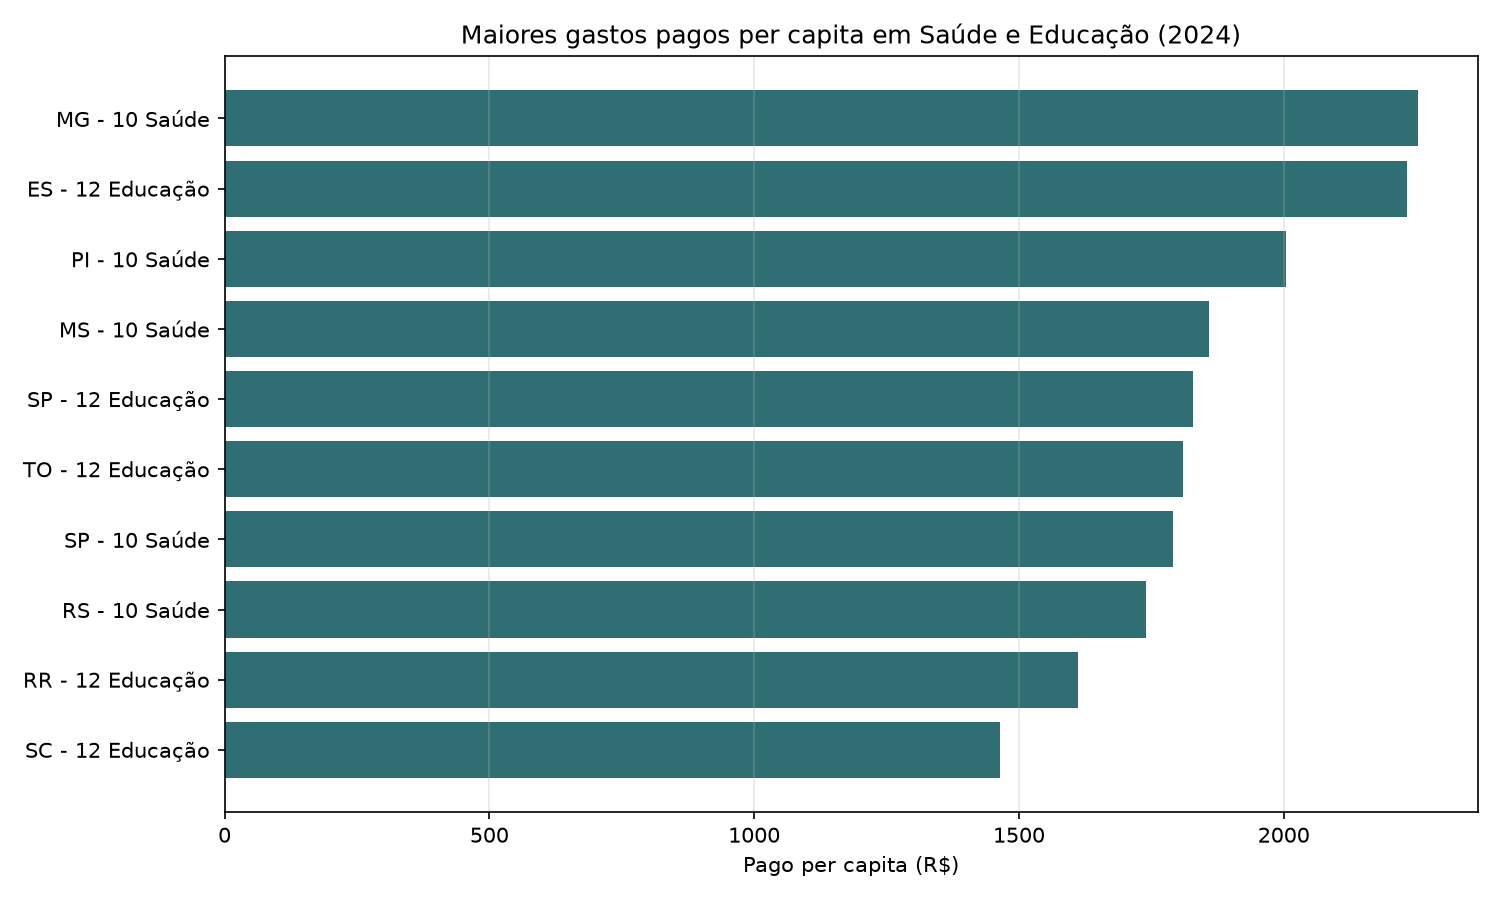
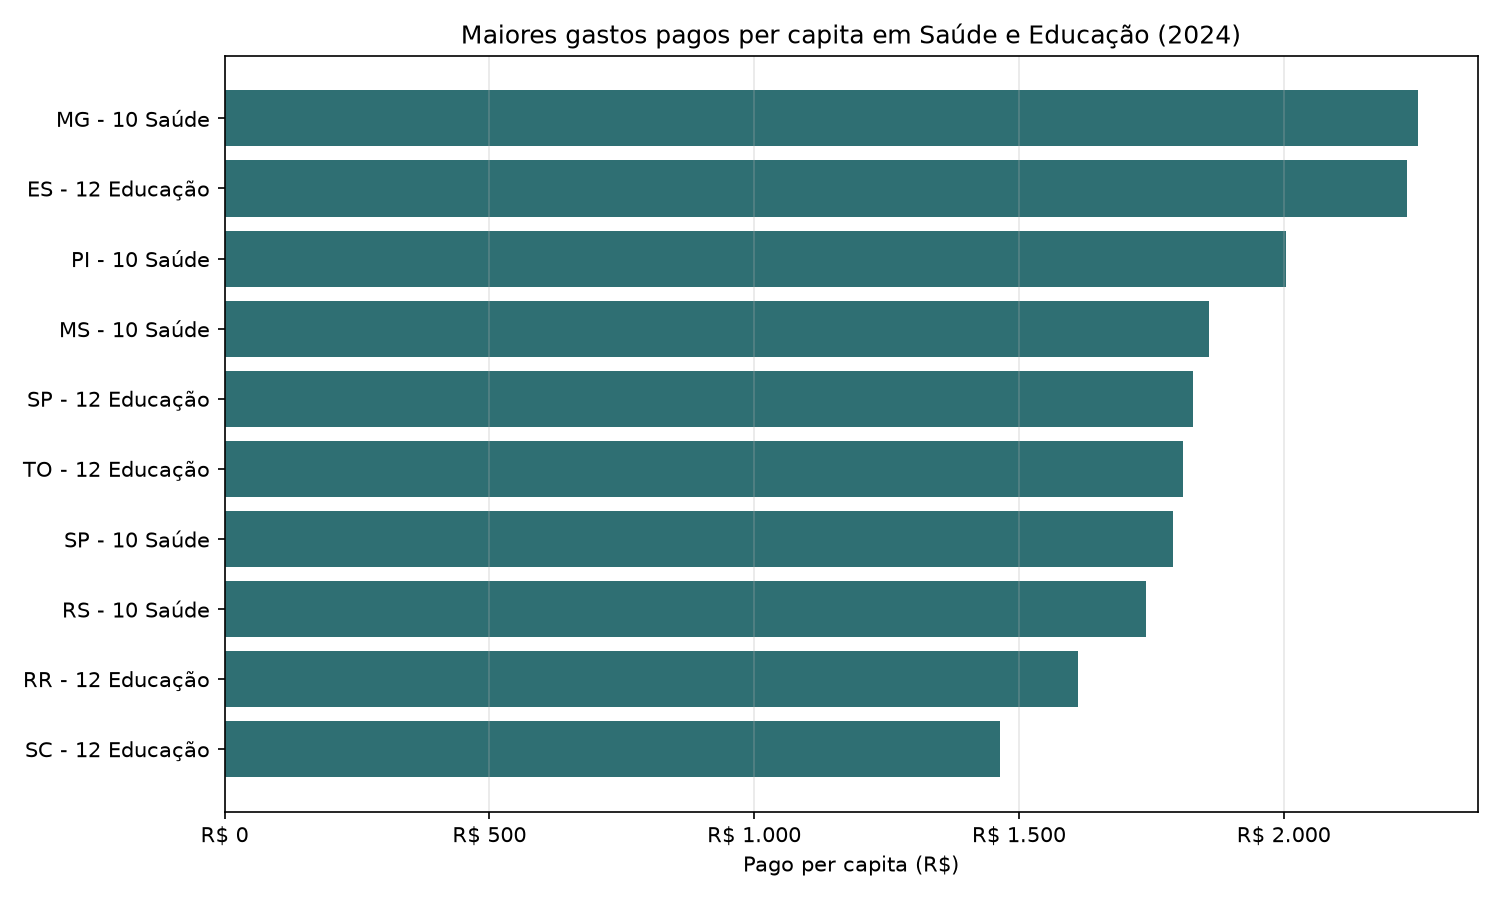
chore: integra novas saidas analiticas (Melhoria)

diff --git a/relatorios/analise_finbra.html b/relatorios/analise_finbra.html
@@ -60,6 +60,40 @@
     </section>
 
     <section class="section">
+      <h2>Baixa execução financeira em 2024</h2>
+      <p>
+        O recorte considera funções com pelo menos R$ 1.000.000,00
+        em despesas empenhadas, reduzindo o ruído de valores residuais.
+      </p>
+      <div class="table-wrap"><table class="data-table"><thead><tr><th>Capital</th><th>Função</th><th>Empenhado</th><th>Pago</th><th>Taxa de execução</th></tr></thead><tbody><tr><td>Goiânia - GO</td><td>11 - Trabalho</td><td>R$ 1.293.451,03</td><td>R$ 0,00</td><td>0,0%</td></tr><tr><td>São Luís - MA</td><td>23 - Comércio e Serviços</td><td>R$ 1.867.305,91</td><td>R$ 559.164,13</td><td>29,9%</td></tr><tr><td>Maceió - AL</td><td>16 - Habitação</td><td>R$ 2.168.153,21</td><td>R$ 649.674,84</td><td>30,0%</td></tr><tr><td>Teresina - PI</td><td>17 - Saneamento</td><td>R$ 4.825.482,62</td><td>R$ 1.586.615,17</td><td>32,9%</td></tr><tr><td>Teresina - PI</td><td>18 - Gestão Ambiental</td><td>R$ 3.913.655,20</td><td>R$ 1.576.162,65</td><td>40,3%</td></tr><tr><td>Curitiba - PR</td><td>16 - Habitação</td><td>R$ 47.450.518,60</td><td>R$ 21.807.627,41</td><td>46,0%</td></tr><tr><td>Vitória - ES</td><td>23 - Comércio e Serviços</td><td>R$ 15.739.115,51</td><td>R$ 7.804.478,54</td><td>49,6%</td></tr><tr><td>São Luís - MA</td><td>20 - Agricultura</td><td>R$ 4.555.374,74</td><td>R$ 2.291.631,27</td><td>50,3%</td></tr><tr><td>Vitória - ES</td><td>24 - Comunicações</td><td>R$ 9.937.871,45</td><td>R$ 5.091.425,60</td><td>51,2%</td></tr><tr><td>Curitiba - PR</td><td>15 - Urbanismo</td><td>R$ 1.805.830.695,76</td><td>R$ 982.059.804,58</td><td>54,4%</td></tr></tbody></table></div>
+    </section>
+
+    <section class="section">
+      <h2>Restos a pagar sobre empenhado em 2024</h2>
+      <div class="table-wrap"><table class="data-table"><thead><tr><th>Capital</th><th>Função</th><th>Empenhado</th><th>Restos a pagar</th><th>Restos sobre empenhado</th><th>Taxa de execução</th></tr></thead><tbody><tr><td>Goiânia - GO</td><td>11 - Trabalho</td><td>R$ 1.293.451,03</td><td>R$ 1.293.451,03</td><td>100,0%</td><td>0,0%</td></tr><tr><td>São Luís - MA</td><td>23 - Comércio e Serviços</td><td>R$ 1.867.305,91</td><td>R$ 1.308.141,78</td><td>70,1%</td><td>29,9%</td></tr><tr><td>Maceió - AL</td><td>16 - Habitação</td><td>R$ 2.168.153,21</td><td>R$ 1.518.478,37</td><td>70,0%</td><td>30,0%</td></tr><tr><td>Teresina - PI</td><td>17 - Saneamento</td><td>R$ 4.825.482,62</td><td>R$ 3.238.867,45</td><td>67,1%</td><td>32,9%</td></tr><tr><td>Teresina - PI</td><td>18 - Gestão Ambiental</td><td>R$ 3.913.655,20</td><td>R$ 2.337.492,55</td><td>59,7%</td><td>40,3%</td></tr><tr><td>Curitiba - PR</td><td>16 - Habitação</td><td>R$ 47.450.518,60</td><td>R$ 25.642.891,19</td><td>54,0%</td><td>46,0%</td></tr><tr><td>Vitória - ES</td><td>23 - Comércio e Serviços</td><td>R$ 15.739.115,51</td><td>R$ 7.934.636,97</td><td>50,4%</td><td>49,6%</td></tr><tr><td>São Luís - MA</td><td>20 - Agricultura</td><td>R$ 4.555.374,74</td><td>R$ 2.263.743,47</td><td>49,7%</td><td>50,3%</td></tr><tr><td>Vitória - ES</td><td>24 - Comunicações</td><td>R$ 9.937.871,45</td><td>R$ 4.846.445,85</td><td>48,8%</td><td>51,2%</td></tr><tr><td>Curitiba - PR</td><td>15 - Urbanismo</td><td>R$ 1.805.830.695,76</td><td>R$ 823.770.891,18</td><td>45,6%</td><td>54,4%</td></tr></tbody></table></div>
+    </section>
+
+    <section class="section">
+      <h2>Maceió contra distribuição das capitais</h2>
+      <div class="table-wrap"><table class="data-table"><thead><tr><th>Ano</th><th>Função</th><th>Maceió pago pc</th><th>Média pago pc</th><th>Mediana pago pc</th><th>Posição pago pc</th><th>Maceió execução</th><th>Mediana execução</th></tr></thead><tbody><tr><td>2020</td><td>10 - Saúde</td><td>R$ 766,94</td><td>R$ 881,20</td><td>R$ 789,72</td><td>15º de 26</td><td>98,7%</td><td>93,4%</td></tr><tr><td>2020</td><td>12 - Educação</td><td>R$ 313,16</td><td>R$ 617,60</td><td>R$ 592,54</td><td>24º de 26</td><td>89,2%</td><td>95,7%</td></tr><tr><td>2021</td><td>10 - Saúde</td><td>R$ 737,29</td><td>R$ 939,08</td><td>R$ 854,60</td><td>18º de 26</td><td>97,7%</td><td>94,5%</td></tr><tr><td>2021</td><td>12 - Educação</td><td>R$ 375,40</td><td>R$ 659,03</td><td>R$ 614,40</td><td>24º de 26</td><td>82,9%</td><td>85,3%</td></tr><tr><td>2022</td><td>10 - Saúde</td><td>R$ 832,41</td><td>R$ 997,61</td><td>R$ 900,50</td><td>18º de 26</td><td>98,4%</td><td>92,9%</td></tr><tr><td>2022</td><td>12 - Educação</td><td>R$ 702,25</td><td>R$ 835,78</td><td>R$ 793,89</td><td>16º de 26</td><td>94,3%</td><td>90,2%</td></tr><tr><td>2023</td><td>10 - Saúde</td><td>R$ 1.235,46</td><td>R$ 1.158,78</td><td>R$ 1.068,33</td><td>9º de 26</td><td>97,8%</td><td>93,2%</td></tr><tr><td>2023</td><td>12 - Educação</td><td>R$ 593,80</td><td>R$ 957,60</td><td>R$ 906,74</td><td>24º de 26</td><td>94,4%</td><td>91,8%</td></tr><tr><td>2024</td><td>10 - Saúde</td><td>R$ 1.314,67</td><td>R$ 1.348,42</td><td>R$ 1.296,56</td><td>13º de 26</td><td>97,4%</td><td>95,5%</td></tr><tr><td>2024</td><td>12 - Educação</td><td>R$ 715,71</td><td>R$ 1.158,05</td><td>R$ 1.055,80</td><td>25º de 26</td><td>85,5%</td><td>94,3%</td></tr></tbody></table></div>
+    </section>
+
+    <section class="section">
+      <h2>Subfunções de Saúde e Educação em Maceió (2024)</h2>
+      <div class="table-wrap"><table class="data-table"><thead><tr><th>Função</th><th>Subfunção</th><th>Pago</th><th>Pago per capita</th><th>Participação na função</th><th>Taxa de execução</th></tr></thead><tbody><tr><td>Saúde</td><td>10.302 - Assistência Hospitalar e Ambulatorial</td><td>R$ 739.098.739,88</td><td>R$ 769,36</td><td>58,5%</td><td>96,6%</td></tr><tr><td>Saúde</td><td>10.301 - Atenção Básica</td><td>R$ 346.872.424,92</td><td>R$ 361,07</td><td>27,5%</td><td>99,0%</td></tr><tr><td>Saúde</td><td>10.122 - Administração Geral</td><td>R$ 77.189.022,44</td><td>R$ 80,35</td><td>6,1%</td><td>98,8%</td></tr><tr><td>Saúde</td><td>10.305 - Vigilância Epidemiológica</td><td>R$ 68.567.166,70</td><td>R$ 71,37</td><td>5,4%</td><td>98,5%</td></tr><tr><td>Saúde</td><td>10.303 - Suporte Profilático e Terapêutico</td><td>R$ 22.785.057,90</td><td>R$ 23,72</td><td>1,8%</td><td>91,0%</td></tr><tr><td>Saúde</td><td>10.304 - Vigilância Sanitária</td><td>R$ 8.141.131,48</td><td>R$ 8,47</td><td>0,6%</td><td>99,1%</td></tr><tr><td>Educação</td><td>12.361 - Ensino Fundamental</td><td>R$ 291.273.033,05</td><td>R$ 303,20</td><td>42,7%</td><td>97,3%</td></tr><tr><td>Educação</td><td>12.122 - Administração Geral</td><td>R$ 193.550.273,99</td><td>R$ 201,47</td><td>28,4%</td><td>82,2%</td></tr><tr><td>Educação</td><td>12.368 - Educação Básica</td><td>R$ 141.609.400,11</td><td>R$ 147,41</td><td>20,8%</td><td>69,3%</td></tr><tr><td>Educação</td><td>12.365 - Educação Infantil</td><td>R$ 50.237.143,03</td><td>R$ 52,29</td><td>7,4%</td><td>96,6%</td></tr><tr><td>Educação</td><td>12.367 - Educação Especial</td><td>R$ 3.440.711,17</td><td>R$ 3,58</td><td>0,5%</td><td>100,0%</td></tr><tr><td>Educação</td><td>12.366 - Educação de Jovens e Adultos</td><td>R$ 1.239.541,75</td><td>R$ 1,29</td><td>0,2%</td><td>100,0%</td></tr></tbody></table></div>
+    </section>
+
+    <section class="section">
+      <h2>Taxas de execução acima de 100%</h2>
+      <p>
+        Casos em que despesas pagas superam empenhadas no mesmo ano devem ser tratados como
+        alerta interpretativo, pois podem refletir pagamentos de restos de exercícios anteriores
+        ou outras dinâmicas contábeis.
+      </p>
+      <div class="table-wrap"><table class="data-table"><thead><tr><th>Ano</th><th>Capital</th><th>Função</th><th>Empenhado</th><th>Pago</th><th>Taxa de execução</th></tr></thead><tbody><tr><td>2023</td><td>Porto Velho - RO</td><td>28 - Encargos Especiais</td><td>R$ 131.804.487,40</td><td>R$ 147.921.326,16</td><td>112,2%</td></tr><tr><td>2023</td><td>Porto Velho - RO</td><td>12 - Educação</td><td>R$ 509.360.652,26</td><td>R$ 534.101.559,80</td><td>104,9%</td></tr><tr><td>2023</td><td>Porto Velho - RO</td><td>10 - Saúde</td><td>R$ 543.437.924,51</td><td>R$ 562.515.234,52</td><td>103,5%</td></tr><tr><td>2023</td><td>Porto Velho - RO</td><td>01 - Legislativa</td><td>R$ 53.534.311,19</td><td>R$ 54.081.483,38</td><td>101,0%</td></tr><tr><td>2024</td><td>Aracaju - SE</td><td>28 - Encargos Especiais</td><td>R$ 201.673.513,30</td><td>R$ 203.509.021,88</td><td>100,9%</td></tr><tr><td>2023</td><td>Porto Velho - RO</td><td>13 - Cultura</td><td>R$ 6.763.523,77</td><td>R$ 6.784.093,32</td><td>100,3%</td></tr><tr><td>2023</td><td>Porto Velho - RO</td><td>04 - Administração</td><td>R$ 518.606.400,05</td><td>R$ 520.026.750,93</td><td>100,3%</td></tr><tr><td>2023</td><td>Porto Velho - RO</td><td>09 - Previdência Social</td><td>R$ 187.765.021,82</td><td>R$ 188.197.135,78</td><td>100,2%</td></tr><tr><td>2024</td><td>Belém - PA</td><td>01 - Legislativa</td><td>R$ 132.409.889,76</td><td>R$ 132.460.145,70</td><td>100,0%</td></tr></tbody></table></div>
+    </section>
+
+    <section class="section">
       <h2>Maceió contra média das capitais</h2>
       <div class="table-wrap"><table class="data-table"><thead><tr><th>Ano</th><th>Função</th><th>Maceió execução</th><th>Média execução</th><th>Maceió pago per capita</th><th>Média pago per capita</th></tr></thead><tbody><tr><td>2020</td><td>10 - Saúde</td><td>98,7%</td><td>92,9%</td><td>R$ 766,94</td><td>R$ 881,20</td></tr><tr><td>2020</td><td>12 - Educação</td><td>89,2%</td><td>93,5%</td><td>R$ 313,16</td><td>R$ 617,60</td></tr><tr><td>2021</td><td>10 - Saúde</td><td>97,7%</td><td>92,7%</td><td>R$ 737,29</td><td>R$ 939,08</td></tr><tr><td>2021</td><td>12 - Educação</td><td>82,9%</td><td>85,5%</td><td>R$ 375,40</td><td>R$ 659,03</td></tr><tr><td>2022</td><td>10 - Saúde</td><td>98,4%</td><td>92,2%</td><td>R$ 832,41</td><td>R$ 997,61</td></tr><tr><td>2022</td><td>12 - Educação</td><td>94,3%</td><td>88,0%</td><td>R$ 702,25</td><td>R$ 835,78</td></tr><tr><td>2023</td><td>10 - Saúde</td><td>97,8%</td><td>93,3%</td><td>R$ 1.235,46</td><td>R$ 1.158,78</td></tr><tr><td>2023</td><td>12 - Educação</td><td>94,4%</td><td>91,3%</td><td>R$ 593,80</td><td>R$ 957,60</td></tr><tr><td>2024</td><td>10 - Saúde</td><td>97,4%</td><td>94,2%</td><td>R$ 1.314,67</td><td>R$ 1.348,42</td></tr><tr><td>2024</td><td>12 - Educação</td><td>85,5%</td><td>92,9%</td><td>R$ 715,71</td><td>R$ 1.158,05</td></tr></tbody></table></div>
     </section>
@@ -83,7 +117,7 @@
     <section class="section">
       <h2>Gráficos</h2>
       <div class="charts">
-        <figure class="chart"><img src="graficos/maceio_taxa_execucao_saude_educacao.png" alt="Maceio taxa execucao saude educacao"><figcaption>Maceio taxa execucao saude educacao</figcaption></figure><figure class="chart"><img src="graficos/ranking_pago_per_capita_saude_educacao.png" alt="Ranking pago per capita saude educacao"><figcaption>Ranking pago per capita saude educacao</figcaption></figure><figure class="chart"><img src="graficos/previa_2025_variacao_pago_per_capita.png" alt="Previa 2025 variacao pago per capita"><figcaption>Previa 2025 variacao pago per capita</figcaption></figure>
+        <figure class="chart"><img src="graficos/maceio_taxa_execucao_saude_educacao.png" alt="Maceio taxa execucao saude educacao"><figcaption>Maceio taxa execucao saude educacao</figcaption></figure><figure class="chart"><img src="graficos/maceio_diferencas_empenhado_pago.png" alt="Maceio diferencas empenhado pago"><figcaption>Maceio diferencas empenhado pago</figcaption></figure><figure class="chart"><img src="graficos/ranking_pago_per_capita_saude_educacao.png" alt="Ranking pago per capita saude educacao"><figcaption>Ranking pago per capita saude educacao</figcaption></figure><figure class="chart"><img src="graficos/previa_2025_variacao_pago_per_capita.png" alt="Previa 2025 variacao pago per capita"><figcaption>Previa 2025 variacao pago per capita</figcaption></figure>
       </div>
     </section>
 
@@ -92,7 +126,9 @@
       <ul>
         <li>A comparação anual deve priorizar 2020 a 2024, pois 2025 tem apenas parte das capitais declaradas.</li>
         <li>A prévia de 2025 compara capitais declarantes contra elas mesmas em 2024.</li>
-        <li>A taxa de execução financeira mostra a distância entre o gasto comprometido e o efetivamente pago.</li>
+        <li>Em 2024, Maceió combina alta execução em Saúde com diferenças mais relevantes entre empenhado e pago em Urbanismo e Educação.</li>
+        <li>O detalhamento por subfunção mostra concentração em assistência hospitalar, atenção básica, ensino fundamental e administração geral.</li>
+        <li>Restos a pagar e taxas acima de 100% precisam ser lidos como sinais de dinâmica orçamentária, não apenas como ranking simples.</li>
         <li>Os rankings por função excluem agregados para evitar dupla contagem.</li>
         <li>A leitura per capita é essencial para comparar capitais de portes diferentes.</li>
       </ul>

diff --git a/relatorios/analise_finbra.md b/relatorios/analise_finbra.md
@@ -56,6 +56,96 @@ Os anos completos para comparação histórica são 2020, 2021, 2022, 2023, 2024
 | Rio de Janeiro - RJ | 09 - Previdência Social | R$ 6.789.834.775,46 | R$ 6.260.036.852,91 | R$ 529.797.922,55 | 92,2% |
 | São Paulo - SP | 16 - Habitação | R$ 5.281.552.995,13 | R$ 4.760.425.320,14 | R$ 521.127.674,99 | 90,1% |
 
+## Baixa execução financeira em 2024
+
+O recorte abaixo considera funções com pelo menos R$ 1.000.000,00 em despesas empenhadas, para evitar que valores residuais dominem a leitura.
+
+| Capital | Função | Empenhado | Pago | Taxa de execução |
+| --- | --- | --- | --- | --- |
+| Goiânia - GO | 11 - Trabalho | R$ 1.293.451,03 | R$ 0,00 | 0,0% |
+| São Luís - MA | 23 - Comércio e Serviços | R$ 1.867.305,91 | R$ 559.164,13 | 29,9% |
+| Maceió - AL | 16 - Habitação | R$ 2.168.153,21 | R$ 649.674,84 | 30,0% |
+| Teresina - PI | 17 - Saneamento | R$ 4.825.482,62 | R$ 1.586.615,17 | 32,9% |
+| Teresina - PI | 18 - Gestão Ambiental | R$ 3.913.655,20 | R$ 1.576.162,65 | 40,3% |
+| Curitiba - PR | 16 - Habitação | R$ 47.450.518,60 | R$ 21.807.627,41 | 46,0% |
+| Vitória - ES | 23 - Comércio e Serviços | R$ 15.739.115,51 | R$ 7.804.478,54 | 49,6% |
+| São Luís - MA | 20 - Agricultura | R$ 4.555.374,74 | R$ 2.291.631,27 | 50,3% |
+| Vitória - ES | 24 - Comunicações | R$ 9.937.871,45 | R$ 5.091.425,60 | 51,2% |
+| Curitiba - PR | 15 - Urbanismo | R$ 1.805.830.695,76 | R$ 982.059.804,58 | 54,4% |
+
+Tabela auxiliar: `relatorios/baixa_execucao_2024.csv`.
+
+## Restos a pagar sobre empenhado em 2024
+
+| Capital | Função | Empenhado | Restos a pagar | Restos sobre empenhado | Taxa de execução |
+| --- | --- | --- | --- | --- | --- |
+| Goiânia - GO | 11 - Trabalho | R$ 1.293.451,03 | R$ 1.293.451,03 | 100,0% | 0,0% |
+| São Luís - MA | 23 - Comércio e Serviços | R$ 1.867.305,91 | R$ 1.308.141,78 | 70,1% | 29,9% |
+| Maceió - AL | 16 - Habitação | R$ 2.168.153,21 | R$ 1.518.478,37 | 70,0% | 30,0% |
+| Teresina - PI | 17 - Saneamento | R$ 4.825.482,62 | R$ 3.238.867,45 | 67,1% | 32,9% |
+| Teresina - PI | 18 - Gestão Ambiental | R$ 3.913.655,20 | R$ 2.337.492,55 | 59,7% | 40,3% |
+| Curitiba - PR | 16 - Habitação | R$ 47.450.518,60 | R$ 25.642.891,19 | 54,0% | 46,0% |
+| Vitória - ES | 23 - Comércio e Serviços | R$ 15.739.115,51 | R$ 7.934.636,97 | 50,4% | 49,6% |
+| São Luís - MA | 20 - Agricultura | R$ 4.555.374,74 | R$ 2.263.743,47 | 49,7% | 50,3% |
+| Vitória - ES | 24 - Comunicações | R$ 9.937.871,45 | R$ 4.846.445,85 | 48,8% | 51,2% |
+| Curitiba - PR | 15 - Urbanismo | R$ 1.805.830.695,76 | R$ 823.770.891,18 | 45,6% | 54,4% |
+
+Tabela auxiliar: `relatorios/restos_a_pagar_2024.csv`.
+
+## Maceió contra distribuição das capitais
+
+| Ano | Função | Maceió pago pc | Média pago pc | Mediana pago pc | Posição pago pc | Maceió execução | Mediana execução |
+| --- | --- | --- | --- | --- | --- | --- | --- |
+| 2020 | 10 - Saúde | R$ 766,94 | R$ 881,20 | R$ 789,72 | 15º de 26 | 98,7% | 93,4% |
+| 2020 | 12 - Educação | R$ 313,16 | R$ 617,60 | R$ 592,54 | 24º de 26 | 89,2% | 95,7% |
+| 2021 | 10 - Saúde | R$ 737,29 | R$ 939,08 | R$ 854,60 | 18º de 26 | 97,7% | 94,5% |
+| 2021 | 12 - Educação | R$ 375,40 | R$ 659,03 | R$ 614,40 | 24º de 26 | 82,9% | 85,3% |
+| 2022 | 10 - Saúde | R$ 832,41 | R$ 997,61 | R$ 900,50 | 18º de 26 | 98,4% | 92,9% |
+| 2022 | 12 - Educação | R$ 702,25 | R$ 835,78 | R$ 793,89 | 16º de 26 | 94,3% | 90,2% |
+| 2023 | 10 - Saúde | R$ 1.235,46 | R$ 1.158,78 | R$ 1.068,33 | 9º de 26 | 97,8% | 93,2% |
+| 2023 | 12 - Educação | R$ 593,80 | R$ 957,60 | R$ 906,74 | 24º de 26 | 94,4% | 91,8% |
+| 2024 | 10 - Saúde | R$ 1.314,67 | R$ 1.348,42 | R$ 1.296,56 | 13º de 26 | 97,4% | 95,5% |
+| 2024 | 12 - Educação | R$ 715,71 | R$ 1.158,05 | R$ 1.055,80 | 25º de 26 | 85,5% | 94,3% |
+
+Tabela auxiliar: `relatorios/maceio_distribuicao_capitais.csv`.
+
+## Subfunções de Saúde e Educação em Maceió (2024)
+
+| Função | Subfunção | Pago | Pago per capita | Participação na função | Taxa de execução |
+| --- | --- | --- | --- | --- | --- |
+| Saúde | 10.302 - Assistência Hospitalar e Ambulatorial | R$ 739.098.739,88 | R$ 769,36 | 58,5% | 96,6% |
+| Saúde | 10.301 - Atenção Básica | R$ 346.872.424,92 | R$ 361,07 | 27,5% | 99,0% |
+| Saúde | 10.122 - Administração Geral | R$ 77.189.022,44 | R$ 80,35 | 6,1% | 98,8% |
+| Saúde | 10.305 - Vigilância Epidemiológica | R$ 68.567.166,70 | R$ 71,37 | 5,4% | 98,5% |
+| Saúde | 10.303 - Suporte Profilático e Terapêutico | R$ 22.785.057,90 | R$ 23,72 | 1,8% | 91,0% |
+| Saúde | 10.304 - Vigilância Sanitária | R$ 8.141.131,48 | R$ 8,47 | 0,6% | 99,1% |
+| Educação | 12.361 - Ensino Fundamental | R$ 291.273.033,05 | R$ 303,20 | 42,7% | 97,3% |
+| Educação | 12.122 - Administração Geral | R$ 193.550.273,99 | R$ 201,47 | 28,4% | 82,2% |
+| Educação | 12.368 - Educação Básica | R$ 141.609.400,11 | R$ 147,41 | 20,8% | 69,3% |
+| Educação | 12.365 - Educação Infantil | R$ 50.237.143,03 | R$ 52,29 | 7,4% | 96,6% |
+| Educação | 12.367 - Educação Especial | R$ 3.440.711,17 | R$ 3,58 | 0,5% | 100,0% |
+| Educação | 12.366 - Educação de Jovens e Adultos | R$ 1.239.541,75 | R$ 1,29 | 0,2% | 100,0% |
+
+Tabela auxiliar: `relatorios/subfuncoes_maceio_2024.csv`.
+
+## Taxas de execução acima de 100%
+
+Algumas funções aparecem com despesas pagas maiores que as empenhadas no mesmo ano. Isso não deve ser lido automaticamente como erro: pode refletir pagamentos de restos de exercícios anteriores ou outras dinâmicas contábeis. O ponto é tratar esses casos como alerta interpretativo antes de comparar rankings.
+
+| Ano | Capital | Função | Empenhado | Pago | Taxa de execução |
+| --- | --- | --- | --- | --- | --- |
+| 2023 | Porto Velho - RO | 28 - Encargos Especiais | R$ 131.804.487,40 | R$ 147.921.326,16 | 112,2% |
+| 2023 | Porto Velho - RO | 12 - Educação | R$ 509.360.652,26 | R$ 534.101.559,80 | 104,9% |
+| 2023 | Porto Velho - RO | 10 - Saúde | R$ 543.437.924,51 | R$ 562.515.234,52 | 103,5% |
+| 2023 | Porto Velho - RO | 01 - Legislativa | R$ 53.534.311,19 | R$ 54.081.483,38 | 101,0% |
+| 2024 | Aracaju - SE | 28 - Encargos Especiais | R$ 201.673.513,30 | R$ 203.509.021,88 | 100,9% |
+| 2023 | Porto Velho - RO | 13 - Cultura | R$ 6.763.523,77 | R$ 6.784.093,32 | 100,3% |
+| 2023 | Porto Velho - RO | 04 - Administração | R$ 518.606.400,05 | R$ 520.026.750,93 | 100,3% |
+| 2023 | Porto Velho - RO | 09 - Previdência Social | R$ 187.765.021,82 | R$ 188.197.135,78 | 100,2% |
+| 2024 | Belém - PA | 01 - Legislativa | R$ 132.409.889,76 | R$ 132.460.145,70 | 100,0% |
+
+Tabela auxiliar: `relatorios/taxas_execucao_acima_100.csv`.
+
 ## Maceió contra média das capitais
 
 | Ano | Função | Maceió execução | Média execução | Maceió pago per capita | Média pago per capita |
@@ -123,6 +213,8 @@ Como 2025 tem apenas parte das capitais declaradas, este recorte não é compara
 
 ![maceio_taxa_execucao_saude_educacao](graficos/maceio_taxa_execucao_saude_educacao.png)
 
+![maceio_diferencas_empenhado_pago](graficos/maceio_diferencas_empenhado_pago.png)
+
 ![ranking_pago_per_capita_saude_educacao](graficos/ranking_pago_per_capita_saude_educacao.png)
 
 ![previa_2025_variacao_pago_per_capita](graficos/previa_2025_variacao_pago_per_capita.png)
@@ -131,6 +223,8 @@ Como 2025 tem apenas parte das capitais declaradas, este recorte não é compara
 
 - A comparação anual deve priorizar 2020 a 2024, pois 2025 tem apenas parte das capitais declaradas.
 - A prévia de 2025 só compara capitais declarantes contra elas mesmas em 2024.
-- A taxa de execução financeira mostra a distância entre o gasto comprometido e o efetivamente pago.
+- Em 2024, Maceió combina alta execução em Saúde com diferenças mais relevantes entre empenhado e pago em Urbanismo e Educação.
+- O detalhamento por subfunção mostra que Saúde se concentra em assistência hospitalar e atenção básica, enquanto Educação se concentra em ensino fundamental, administração geral e educação básica.
+- Restos a pagar e taxas acima de 100% precisam ser lidos como sinais de dinâmica orçamentária, não apenas como ranking simples.
 - Os rankings por função excluem agregados para evitar dupla contagem.
 - A leitura per capita é essencial para comparar capitais de portes muito diferentes.